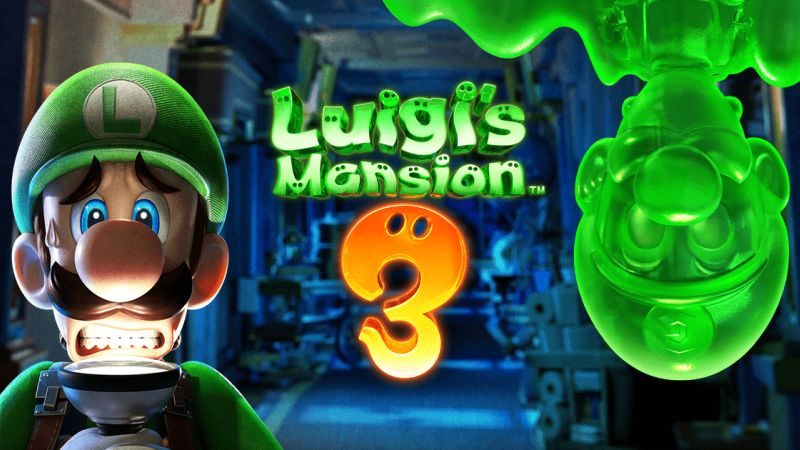
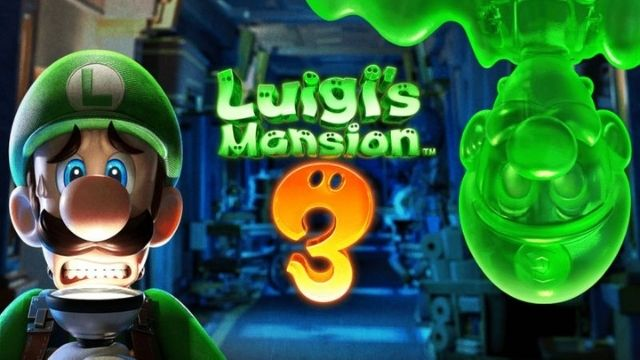
Se acomodo el tamaño de imagenes

diff --git a/index.html b/index.html
@@ -71,7 +71,7 @@
       </nav>
     </header>
 
-    <main class="container-fluid">
+    <main class="container-fluid my-5">
       <section class="container">
         <h1 class="displey-4">Elegí tu juego favorito</h1>
         <div class="row justify-content-end">
